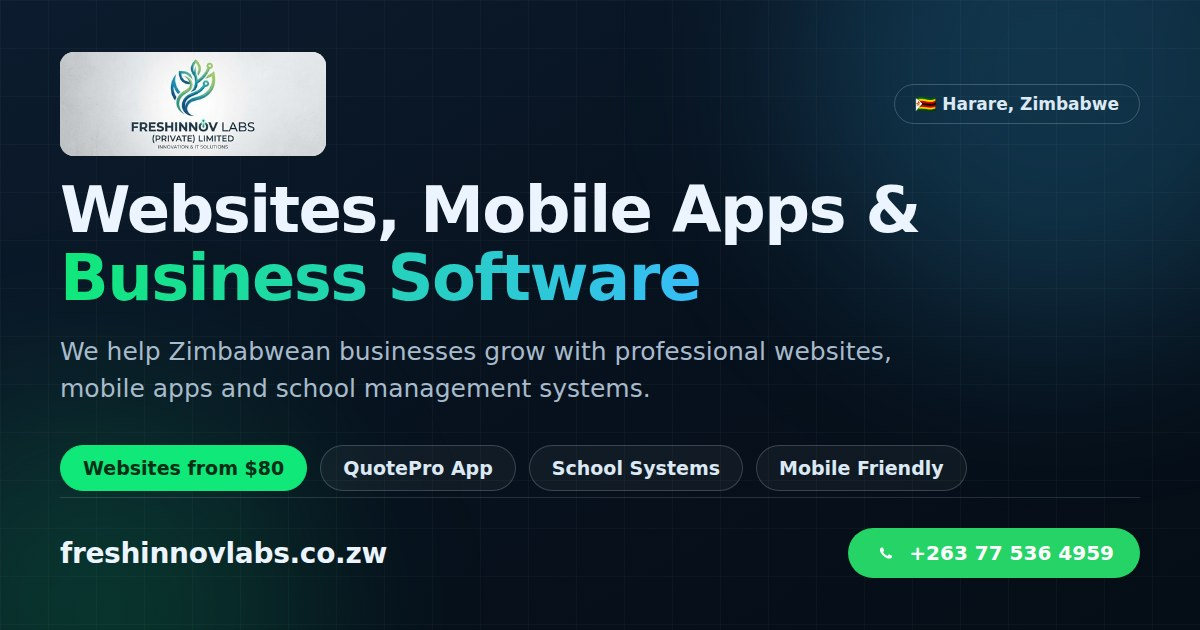
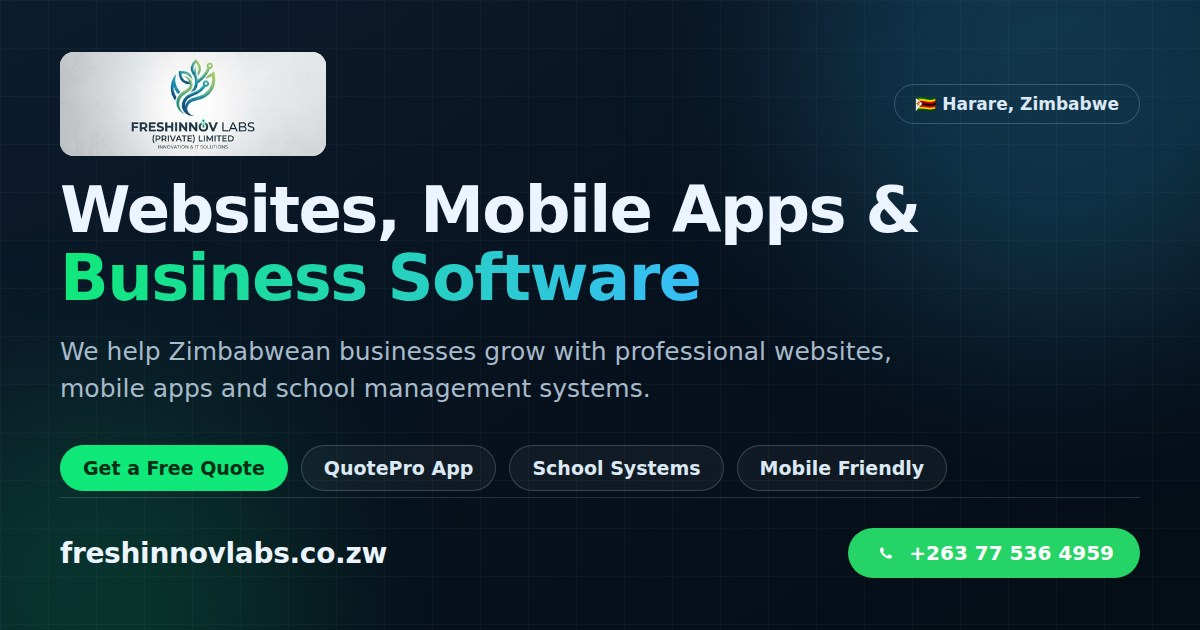
Remove website package pricing from the site
Takes the price out of the hero CTA, mobile menu button, pricing card
and footer banner, and out of the social preview description and image.

The pricing card now leads with what the package includes, and the
footer banner invites a free quote instead of quoting a figure.

Changed region(s): [[0.0617, 0.6937, 0.8017, 0.7841]]

diff --git a/index.html b/index.html
@@ -15,7 +15,7 @@
   <meta property="og:locale" content="en_ZW"/>
   <meta property="og:url" content="https://freshinnovlabs.co.zw/"/>
   <meta property="og:title" content="Freshinnov Labs | Websites, Mobile Apps &amp; Business Software in Zimbabwe"/>
-  <meta property="og:description" content="We build professional websites from $80, mobile apps, school management systems and QuotePro quotation software for Zimbabwean businesses. Based in Harare."/>
+  <meta property="og:description" content="We build professional websites, mobile apps, school management systems and QuotePro quotation software for Zimbabwean businesses. Based in Harare."/>
   <meta property="og:image" content="https://freshinnovlabs.co.zw/assets/og-image.jpg"/>
   <meta property="og:image:secure_url" content="https://freshinnovlabs.co.zw/assets/og-image.jpg"/>
   <meta property="og:image:type" content="image/jpeg"/>
@@ -26,7 +26,7 @@
   <!-- Twitter / X large card -->
   <meta name="twitter:card" content="summary_large_image"/>
   <meta name="twitter:title" content="Freshinnov Labs | Websites, Mobile Apps &amp; Business Software in Zimbabwe"/>
-  <meta name="twitter:description" content="We build professional websites from $80, mobile apps, school management systems and QuotePro quotation software for Zimbabwean businesses."/>
+  <meta name="twitter:description" content="We build professional websites, mobile apps, school management systems and QuotePro quotation software for Zimbabwean businesses."/>
   <meta name="twitter:image" content="https://freshinnovlabs.co.zw/assets/og-image.jpg"/>
   <link rel="preconnect" href="https://fonts.googleapis.com"/>
   <link rel="preconnect" href="https://fonts.gstatic.com" crossorigin/>
@@ -81,7 +81,7 @@
         <a href="https://wa.me/263775364959" target="_blank" rel="noopener">WhatsApp Us</a>
         <button class="button button-primary" type="button" data-open-lead>
           <svg viewBox="0 0 24 24" aria-hidden="true"><path d="M12 5v14M5 12h14"/></svg>
-          <span>Get Website - $80</span>
+          <span>Get Website</span>
         </button>
       </div>
     </div>
@@ -98,7 +98,7 @@
           <div class="hero-actions" aria-label="Primary actions">
             <button class="button button-primary" type="button" data-open-lead>
               <span class="button-dot" aria-hidden="true"></span>
-              <span>Get Website - $80 Once Off</span>
+              <span>Get Your Website</span>
             </button>
             <a class="button button-secondary" href="downloads/QuotePro-Enterprise-1.0.6-x64-setup.exe" download>
               <svg viewBox="0 0 24 24" aria-hidden="true"><path d="M12 4v11M7.5 10.5 12 15l4.5-4.5M5 19h14"/></svg>
@@ -332,7 +332,7 @@
           <article class="price-card price-featured">
             <div class="price-top">
               <p>Website Package</p>
-              <strong>$80 <span>Once Off</span></strong>
+              <h3>Everything you need to get your business online</h3>
             </div>
             <ul class="feature-list">
               <li>Mobile friendly website</li>
@@ -517,7 +517,7 @@
           <span>Google Setup</span>
           <span>WhatsApp Integration</span>
         </div>
-        <strong class="footer-price">ONLY $80 ONCE OFF</strong>
+        <strong class="footer-price">REQUEST YOUR FREE QUOTE</strong>
       </div>
       <div class="footer-actions">
         <a class="button button-ghost" href="https://wa.me/263775364959" target="_blank" rel="noopener">
